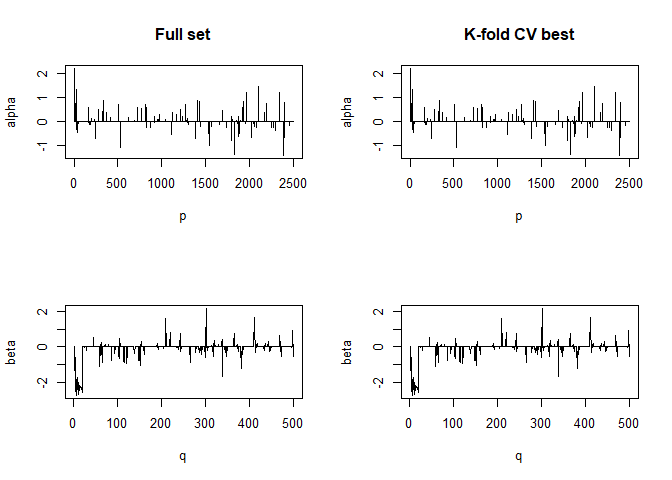
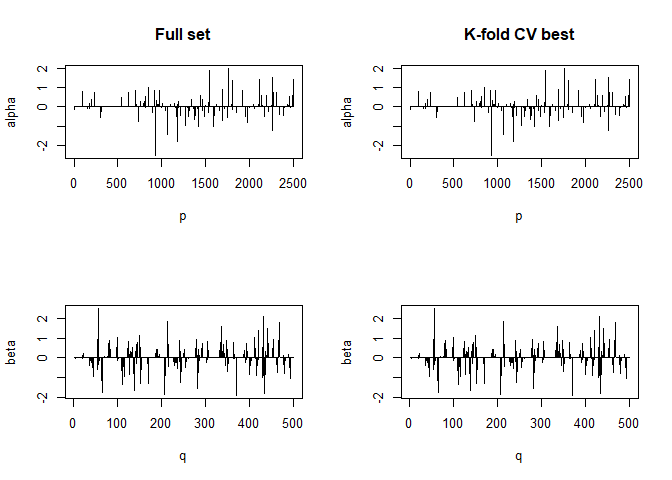
omit one plot in subset support

diff --git a/README.md b/README.md
@@ -52,7 +52,7 @@ cca_toscca  = toscca::toscca(X, Y, nonz_x, nonz_y, K, init, combination = FALSE)
 #>  For component K =  1 : 
 #> | . . . . . . . . . . . . . . . . . . . . . . . . . . . . . . . . . . . . . .  | 100 %          Common convergence error: 0 & Iterations: 4 
 #> k-fold cv max. cancor 
-#>             0.9999568 
+#>             0.9999112 
 #> 
 #>  ........................................ 
 #>  # nonzero A: 100
@@ -65,9 +65,9 @@ cca_toscca  = toscca::toscca(X, Y, nonz_x, nonz_y, K, init, combination = FALSE)
     #> 
     #> __________________________________________ 
     #>  For component K =  2 : 
-    #> | . . . . . . . . . . . . . . . . . . . . . . . . . . . . . . . . . . . . . .  | 100 %          Common convergence error: 0 & Iterations: 17 
+    #> | . . . . . . . . . . . . . . . . . . . . . . . . . . . . . . . . . . . . . .  | 100 %          Common convergence error: 0 & Iterations: 8 
     #> k-fold cv max. cancor 
-    #>             0.9718569 
+    #>             0.9805795 
     #> 
     #>  ........................................ 
     #>  # nonzero A: 100
@@ -79,9 +79,9 @@ cca_toscca  = toscca::toscca(X, Y, nonz_x, nonz_y, K, init, combination = FALSE)
     #> 
     #> __________________________________________ 
     #>  For component K =  3 : 
-    #> | . . . . . . . . . . . . . . . . . . . . . . . . . . . . . . . . . . . . . .  | 100 %          Common convergence error: 0.0039 & Iterations: 21 
+    #> | . . . . . . . . . . . . . . . . . . . . . . . . . . . . . . . . . . . . . .  | 100 %          Common convergence error: 0 & Iterations: 10 
     #> k-fold cv max. cancor 
-    #>             0.1956175 
+    #>             0.9325936 
     #> 
     #>  ........................................ 
     #>  # nonzero A: 100
@@ -93,9 +93,9 @@ cca_toscca  = toscca::toscca(X, Y, nonz_x, nonz_y, K, init, combination = FALSE)
     #> 
     #> __________________________________________ 
     #>  For component K =  4 : 
-    #> | . . . . . . . . . . . . . . . . . . . . . . . . . . . . . . . . . . . . . .  | 100 %          Common convergence error: 0.00011 & Iterations: 21 
+    #> | . . . . . . . . . . . . . . . . . . . . . . . . . . . . . . . . . . . . . .  | 100 %          Common convergence error: 0.00049 & Iterations: 21 
     #> k-fold cv max. cancor 
-    #>              0.886481 
+    #>             0.1114875 
     #> 
     #>  ........................................ 
     #>  # nonzero A: 100
@@ -115,8 +115,8 @@ perm_toscca = perm.toscca(X, Y, nonz_x, nonz_y, K = K, init, draws = 100, cancor
     #> Empirical p-values:
     #> 0
     #> 0
-    #> 0.08
     #> 0
+    #> 0.33
     #> NULL
 
 We repeat the analysis using the Penalised Matrix Analysis approach from
@@ -128,7 +128,7 @@ compare to our models’ performance.
 pma_lambda = PMA::CCA.permute(X, Y, typex = "standard", typez = "standard")
 cca_pma = CCA_pma_random(X, Y, K = 4, typex = "standard", typez = "standard", start = "uniform", 
                          penaltyx = pma_lambda$bestpenaltyx, pma_lambda$bestpenaltyz)
-#> 1234567891011121314
+#> 123456789101112131415
 #> 123456789101112131415
 #> 123456789101112131415
 #> 123456789101112131415
@@ -147,7 +147,7 @@ selected once the signal has been retrieved.
     #>  For component K =  1 : 
     #> | . . . . . . . . . . . . . . . . . . . . . . . . . . . . . . . . . . . . . .  | 100 %          Common convergence error: 0 & Iterations: 4 
     #> k-fold cv max. cancor 
-    #>             0.9998458 
+    #>             0.9998522 
     #> 
     #>  ........................................ 
     #>  # nonzero A: 10
@@ -156,9 +156,9 @@ selected once the signal has been retrieved.
     #> 
     #> __________________________________________ 
     #>  For component K =  2 : 
-    #> | . . . . . . . . . . . . . . . . . . . . . . . . . . . . . . . . . . . . . .  | 100 %          Common convergence error: 0.00011 & Iterations: 21 
+    #> | . . . . . . . . . . . . . . . . . . . . . . . . . . . . . . . . . . . . . .  | 100 %          Common convergence error: 0 & Iterations: 21 
     #> k-fold cv max. cancor 
-    #>             0.1217369 
+    #>             0.9452523 
     #> 
     #>  ........................................ 
     #>  # nonzero A: 10
@@ -169,7 +169,7 @@ selected once the signal has been retrieved.
     #>  For component K =  1 : 
     #> | . . . . . . . . . . . . . . . . . . . . . . . . . . . . . . . . . . . . . .  | 100 %          Common convergence error: 0 & Iterations: 4 
     #> k-fold cv max. cancor 
-    #>             0.9998968 
+    #>              0.999942 
     #> 
     #>  ........................................ 
     #>  # nonzero A: 60
@@ -180,7 +180,7 @@ selected once the signal has been retrieved.
     #>  For component K =  2 : 
     #> | . . . . . . . . . . . . . . . . . . . . . . . . . . . . . . . . . . . . . .  | 100 %          Common convergence error: 0 & Iterations: 10 
     #> k-fold cv max. cancor 
-    #>             0.9526918 
+    #>             0.9625605 
     #> 
     #>  ........................................ 
     #>  # nonzero A: 60
@@ -189,9 +189,9 @@ selected once the signal has been retrieved.
     #> 
     #> __________________________________________ 
     #>  For component K =  1 : 
-    #> | . . . . . . . . . . . . . . . . . . . . . . . . . . . . . . . . . . . . . .  | 100 %          Common convergence error: 0 & Iterations: 5 
+    #> | . . . . . . . . . . . . . . . . . . . . . . . . . . . . . . . . . . . . . .  | 100 %          Common convergence error: 0 & Iterations: 4 
     #> k-fold cv max. cancor 
-    #>             0.9999254 
+    #>             0.9999381 
     #> 
     #>  ........................................ 
     #>  # nonzero A: 110
@@ -200,9 +200,9 @@ selected once the signal has been retrieved.
     #> 
     #> __________________________________________ 
     #>  For component K =  2 : 
-    #> | . . . . . . . . . . . . . . . . . . . . . . . . . . . . . . . . . . . . . .  | 100 %          Common convergence error: 0 & Iterations: 21 
+    #> | . . . . . . . . . . . . . . . . . . . . . . . . . . . . . . . . . . . . . .  | 100 %          Common convergence error: 0 & Iterations: 17 
     #> k-fold cv max. cancor 
-    #>               0.95789 
+    #>             0.9560377 
     #> 
     #>  ........................................ 
     #>  # nonzero A: 110
@@ -213,7 +213,7 @@ selected once the signal has been retrieved.
     #>  For component K =  1 : 
     #> | . . . . . . . . . . . . . . . . . . . . . . . . . . . . . . . . . . . . . .  | 100 %          Common convergence error: 0 & Iterations: 4 
     #> k-fold cv max. cancor 
-    #>             0.9998552 
+    #>             0.9998549 
     #> 
     #>  ........................................ 
     #>  # nonzero A: 160
@@ -222,9 +222,9 @@ selected once the signal has been retrieved.
     #> 
     #> __________________________________________ 
     #>  For component K =  2 : 
-    #> | . . . . . . . . . . . . . . . . . . . . . . . . . . . . . . . . . . . . . .  | 100 %          Common convergence error: 0 & Iterations: 17 
+    #> | . . . . . . . . . . . . . . . . . . . . . . . . . . . . . . . . . . . . . .  | 100 %          Common convergence error: 0 & Iterations: 10 
     #> k-fold cv max. cancor 
-    #>             0.9470117 
+    #>             0.9407342 
     #> 
     #>  ........................................ 
     #>  # nonzero A: 160
@@ -233,9 +233,9 @@ selected once the signal has been retrieved.
     #> 
     #> __________________________________________ 
     #>  For component K =  1 : 
-    #> | . . . . . . . . . . . . . . . . . . . . . . . . . . . . . . . . . . . . . .  | 100 %          Common convergence error: 0 & Iterations: 5 
+    #> | . . . . . . . . . . . . . . . . . . . . . . . . . . . . . . . . . . . . . .  | 100 %          Common convergence error: 0 & Iterations: 4 
     #> k-fold cv max. cancor 
-    #>             0.9997389 
+    #>             0.9997678 
     #> 
     #>  ........................................ 
     #>  # nonzero A: 210
@@ -244,9 +244,9 @@ selected once the signal has been retrieved.
     #> 
     #> __________________________________________ 
     #>  For component K =  2 : 
-    #> | . . . . . . . . . . . . . . . . . . . . . . . . . . . . . . . . . . . . . .  | 100 %          Common convergence error: 0 & Iterations: 17 
+    #> | . . . . . . . . . . . . . . . . . . . . . . . . . . . . . . . . . . . . . .  | 100 %          Common convergence error: 0 & Iterations: 11 
     #> k-fold cv max. cancor 
-    #>             0.9428045 
+    #>             0.9341117 
     #> 
     #>  ........................................ 
     #>  # nonzero A: 210
@@ -255,9 +255,9 @@ selected once the signal has been retrieved.
     #> 
     #> __________________________________________ 
     #>  For component K =  1 : 
-    #> | . . . . . . . . . . . . . . . . . . . . . . . . . . . . . . . . . . . . . .  | 100 %          Common convergence error: 0 & Iterations: 6 
+    #> | . . . . . . . . . . . . . . . . . . . . . . . . . . . . . . . . . . . . . .  | 100 %          Common convergence error: 0 & Iterations: 4 
     #> k-fold cv max. cancor 
-    #>             0.9995017 
+    #>             0.9997949 
     #> 
     #>  ........................................ 
     #>  # nonzero A: 260
@@ -266,9 +266,9 @@ selected once the signal has been retrieved.
     #> 
     #> __________________________________________ 
     #>  For component K =  2 : 
-    #> | . . . . . . . . . . . . . . . . . . . . . . . . . . . . . . . . . . . . . .  | 100 %          Common convergence error: 0 & Iterations: 19 
+    #> | . . . . . . . . . . . . . . . . . . . . . . . . . . . . . . . . . . . . . .  | 100 %          Common convergence error: 0.00155 & Iterations: 21 
     #> k-fold cv max. cancor 
-    #>             0.9005219 
+    #>             0.1725572 
     #> 
     #>  ........................................ 
     #>  # nonzero A: 260
@@ -279,10 +279,32 @@ selected once the signal has been retrieved.
     #>  For component K =  1 : 
     #> | . . . . . . . . . . . . . . . . . . . . . . . . . . . . . . . . . . . . . .  | 100 %          Common convergence error: 0 & Iterations: 4 
     #> k-fold cv max. cancor 
-    #>             0.9997465 
+    #>             0.9997038 
     #> 
     #>  ........................................ 
     #>  # nonzero A: 310
+    #>  # nonzero B: 50
+    #>  ........................................ 
+    #> 
+    #> __________________________________________ 
+    #>  For component K =  2 : 
+    #> | . . . . . . . . . . . . . . . . . . . . . . . . . . . . . . . . . . . . . .  | 100 %          Common convergence error: 0.00232 & Iterations: 21 
+    #> k-fold cv max. cancor 
+    #>             0.2124609 
+    #> 
+    #>  ........................................ 
+    #>  # nonzero A: 310
+    #>  # nonzero B: 10
+    #>  ........................................ 
+    #> 
+    #> __________________________________________ 
+    #>  For component K =  1 : 
+    #> | . . . . . . . . . . . . . . . . . . . . . . . . . . . . . . . . . . . . . .  | 100 %          Common convergence error: 0 & Iterations: 4 
+    #> k-fold cv max. cancor 
+    #>             0.9996146 
+    #> 
+    #>  ........................................ 
+    #>  # nonzero A: 360
     #>  # nonzero B: 50
     #>  ........................................ 
     #> 
@@ -290,36 +312,14 @@ selected once the signal has been retrieved.
     #>  For component K =  2 : 
     #> | . . . . . . . . . . . . . . . . . . . . . . . . . . . . . . . . . . . . . .  | 100 %          Common convergence error: 0 & Iterations: 12 
     #> k-fold cv max. cancor 
-    #>             0.8801114 
-    #> 
-    #>  ........................................ 
-    #>  # nonzero A: 310
-    #>  # nonzero B: 10
-    #>  ........................................ 
-    #> 
-    #> __________________________________________ 
-    #>  For component K =  1 : 
-    #> | . . . . . . . . . . . . . . . . . . . . . . . . . . . . . . . . . . . . . .  | 100 %          Common convergence error: 0 & Iterations: 4 
-    #> k-fold cv max. cancor 
-    #>             0.9997467 
-    #> 
-    #>  ........................................ 
-    #>  # nonzero A: 360
-    #>  # nonzero B: 50
-    #>  ........................................ 
-    #> 
-    #> __________________________________________ 
-    #>  For component K =  2 : 
-    #> | . . . . . . . . . . . . . . . . . . . . . . . . . . . . . . . . . . . . . .  | 100 %          Common convergence error: 0 & Iterations: 17 
-    #> k-fold cv max. cancor 
-    #>             0.8949176 
+    #>             0.9458648 
     #> 
     #>  ........................................ 
     #>  # nonzero A: 360
     #>  # nonzero B: 10
     #>  ........................................
 
-<img src="man/figures/README-unnamed-chunk-3-1.png" width="100%" /><img src="man/figures/README-unnamed-chunk-3-2.png" width="100%" /><img src="man/figures/README-unnamed-chunk-3-3.png" width="100%" />
+<img src="man/figures/README-unnamed-chunk-3-1.png" width="100%" />
 
 ## Cummulative percentage of explained variance (CPEV) and correlation between components.
 
@@ -424,19 +424,19 @@ third_fourth
 PMA
 </td>
 <td style="text-align:right;">
-0.7342183
+-0.0101010
+</td>
+<td style="text-align:right;">
+0.6278225
 </td>
 <td style="text-align:right;">
 -0.0101010
 </td>
 <td style="text-align:right;">
-0.1649223
+0.1227418
 </td>
 <td style="text-align:right;">
-0.1392179
-</td>
-<td style="text-align:right;">
-0.2664288
+-0.0101010
 </td>
 </tr>
 <tr>
@@ -444,19 +444,19 @@ PMA
 TOSCCA
 </td>
 <td style="text-align:right;">
--0.0178982
+-0.0217817
 </td>
 <td style="text-align:right;">
--0.0065528
+-0.0096114
 </td>
 <td style="text-align:right;">
--0.0106772
+-0.0045191
 </td>
 <td style="text-align:right;">
-0.0028085
+-0.0040061
 </td>
 <td style="text-align:right;">
--0.0014454
+0.0097445
 </td>
 </tr>
 </tbody>
@@ -486,16 +486,16 @@ Autocorrelation between components
 PMA
 </td>
 <td style="text-align:right;">
-0.0017984
+0.0020653
 </td>
 <td style="text-align:right;">
-0.0019119
+0.0081771
 </td>
 <td style="text-align:right;">
-0.0042579
+0.0068477
 </td>
 <td style="text-align:right;">
-0.0063210
+0.0120499
 </td>
 </tr>
 <tr>
@@ -503,16 +503,16 @@ PMA
 TOSCCA
 </td>
 <td style="text-align:right;">
-0.0066797
+0.0072966
 </td>
 <td style="text-align:right;">
-0.0066534
+0.0082782
 </td>
 <td style="text-align:right;">
-0.0068747
+0.0090524
 </td>
 <td style="text-align:right;">
-0.0075906
+0.0095376
 </td>
 </tr>
 </tbody>
